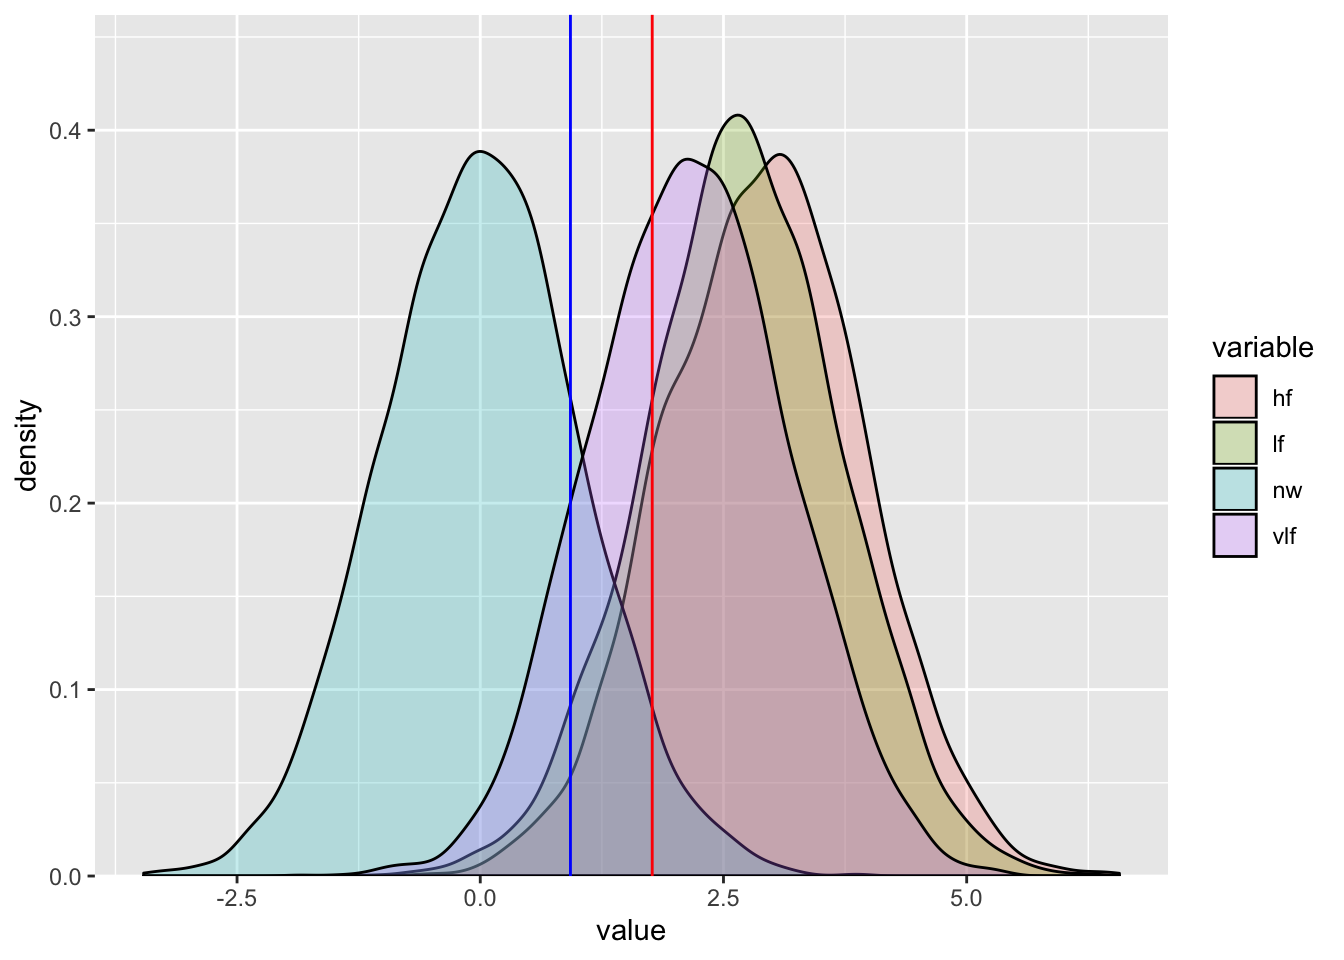
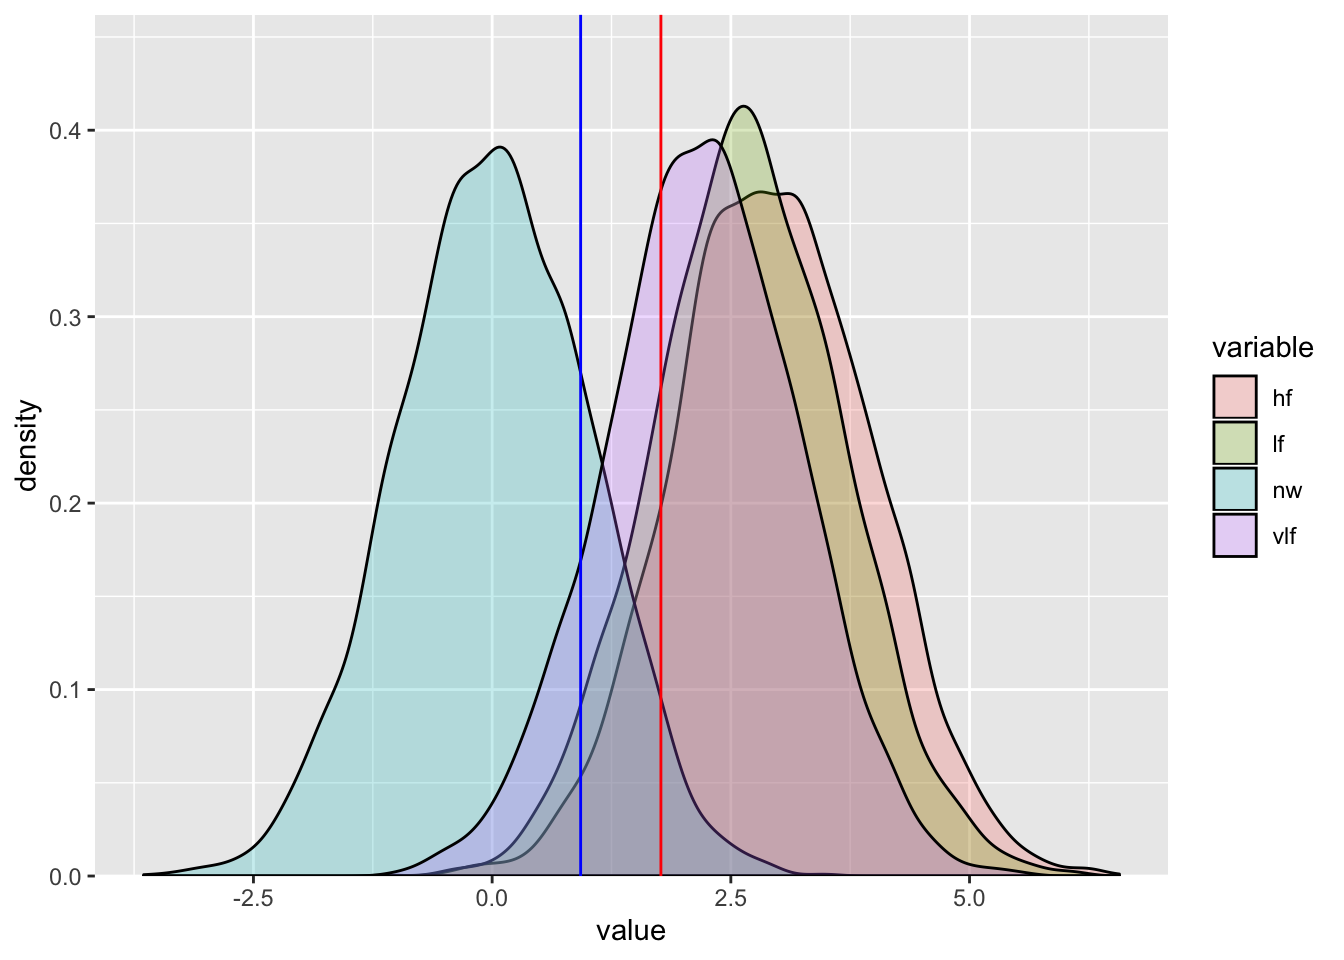
Insert sdt img

Changed region(s): [[0.25, 0.0312, 0.8125, 0.9688], [0.125, 0.1875, 0.3438, 0.9375]]

diff --git a/docs/how-to-use-the-pmwg-sampler-signal-detection-theory.html b/docs/how-to-use-the-pmwg-sampler-signal-detection-theory.html
@@ -272,8 +272,9 @@ code > span.in { color: #60a0b0; font-weight: bold; font-style: italic; } /* Inf
 </table>
 <div id="signal-detection-theory" class="section level3">
 <h3><span class="header-section-number">6.1.1</span> Signal Detection Theory</h3>
-<p>We assume you have an understanding of SDT so we’ll jump to an explanation of how we can use SDT in the context of the lexical decision task. First, we begin with the distributions for <i>word</i> and <i>non-word</i> stimuli. You can think of these two distributions as the ‘noise’ and ‘signal’ curves, respectively. Each distribution represents the evidence for ‘word-likeness’ and they are assumed to be normally distributed. For the <i>non-word</i> distribution (or the ‘noise’ distribution) we set its mean to 0 and the standard deviation (SD) to 1 (NOTE: it is possible to estimate SD, but we will use 1 in this example for simplicity). We then set the mean for all three <i>word</i> distributions (i.e. <i>very low frequency</i>, <i>low frequency</i> and <i>high frequency</i>) to <code>d'</code> (d-prime).</p>
-<p>Secondly, a criterion is set. This criterion is the point at which an individual responds “word” - if the value is above the criterion, or “non-word” - if the value is below the criterion. Given these parameters, one would expect that the “word” distribution would have a higher mean than the non-words, with some partial overlap (for words and non-words which might be difficult to classify). The criterion should then be set somewhere between these means. If a person was biased to respond “word”, they’re criterion would move down. In total, in the simple SDT model, there would be 2 parameters - d’ (the mean of the word distribution) and C (the criterion).</p>
+<p>We assume you have an understanding of SDT so we’ll jump to an explanation of how we can use SDT in the context of the lexical decision task. We begin with the distributions for <i>non-word</i> and <i>word</i> stimuli. You can think of these two distributions as the ‘noise’ and ‘signal’ curves, respectively. Each distribution represents the evidence for ‘word-likeness’ and they are assumed to be normally distributed. The <i>non-word</i> distribution (or the ‘noise’ distribution) has a mean of 0 and a standard deviation (SD) of 1 (Note: we could estimate SD here, but we will use 1 in this example for simplicity). The mean for each <i>word</i> distribution is unknown at this point, however, we assign a d-prime parameter (i.e. the signal-noise difference between words and non-words) to each distribution (d’<sub>hf</sub>, d’<sub>lf</sub>, d’<sub>vlf</sub>). The second parameter we denote is the criterion (C) parameter i.e. the point at which an individual responds <i>non-word</i> or <i>word</i>. - if the value is above the criterion, - if the value is below the criterion. Given these parameters, one would expect that the “word” distribution would have a higher mean than the non-words, with some partial overlap (for words and non-words which might be difficult to classify). The criterion should then be set somewhere between these means. If a person was biased to respond “word”, they’re criterion would move down. In total, in the simple SDT model, there would be 2 parameters - d’ (the mean of the word distribution) and C (the criterion).</p>
+<div class="sourceCode"><pre class="sourceCode r"><code class="sourceCode r">knitr<span class="op">::</span><span class="kw">include_graphics</span>(<span class="st">&quot;_images/SDT.png&quot;</span>)</code></pre></div>
+<p><img src="_images/sdt.png" width="600" /></p>
 <p><img src="bookdown-demo_files/figure-html/unnamed-chunk-1-1.png" width="672" /></p>
 <p><b>A second example might cover another SDT example with the addition of trial level covariate i.e. analytic solution NA.</b></p>
 
